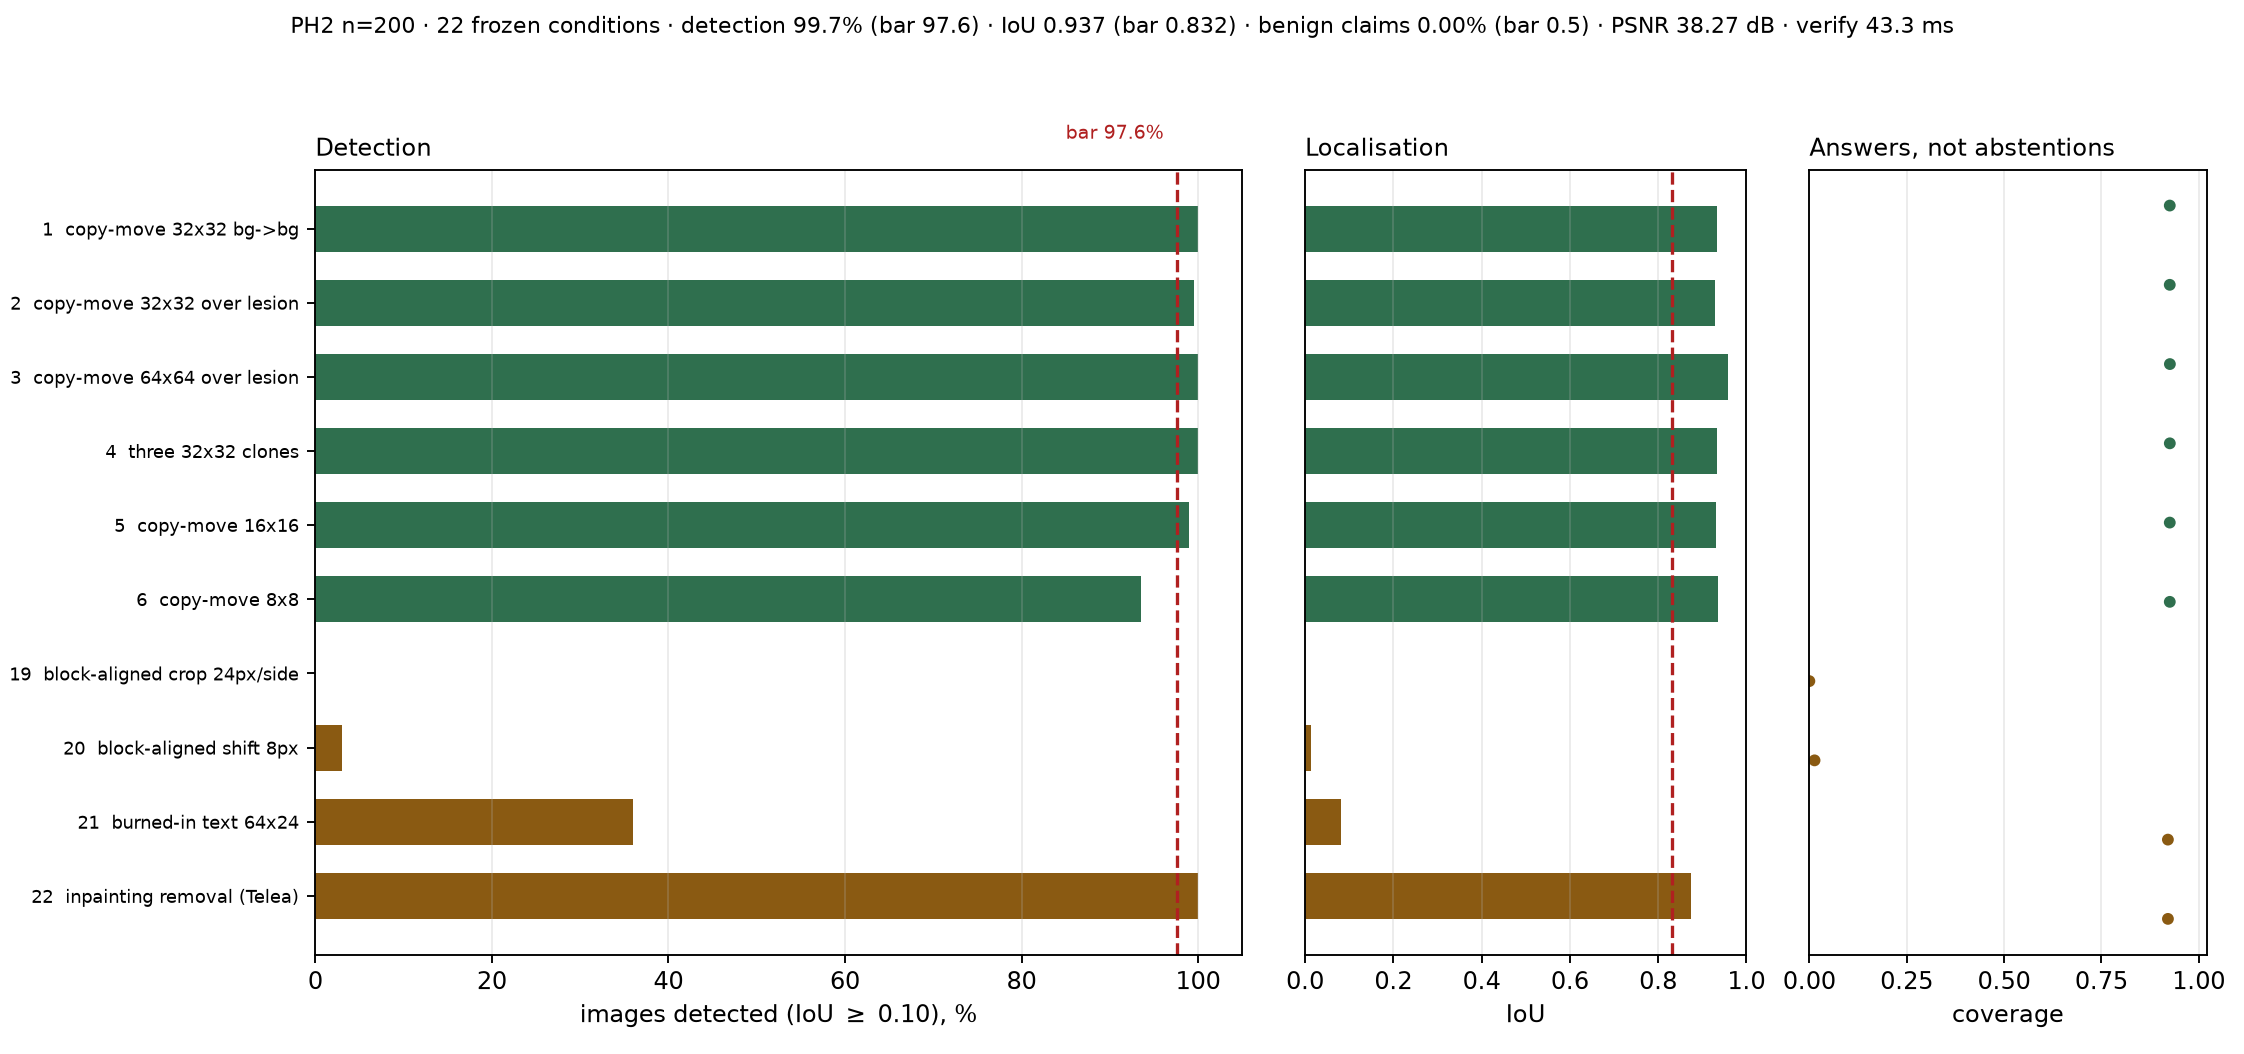
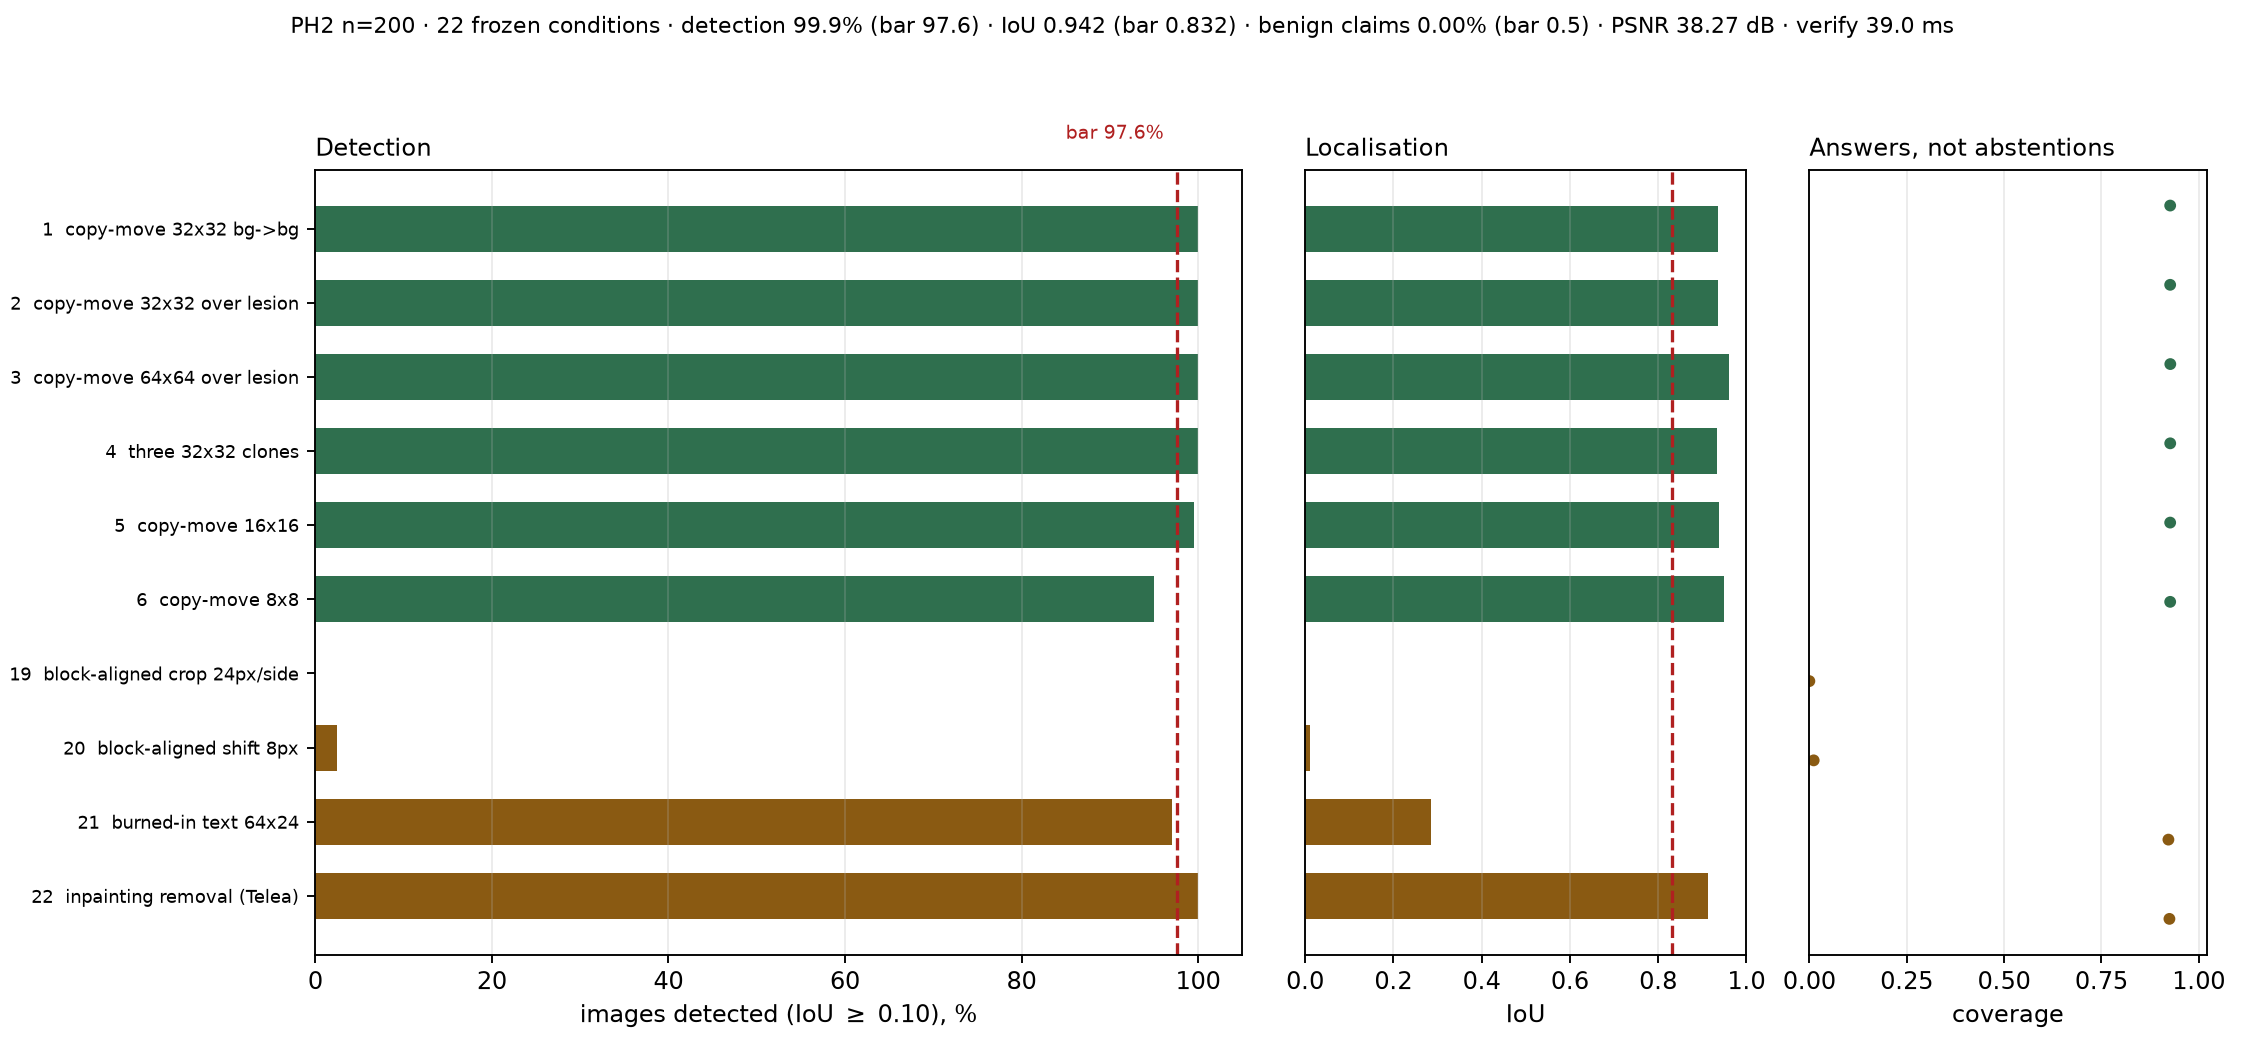
run: the headline receipt, clean code paths, and figures from it
n200-v6 at commit dd06beb: detection 0.9990, IoU 0.9421, benign 0.0000,
clean-image claims 0/200, PSNR 38.27 (worst 35.52), verify 38.98 ms,
coverage 0.927. Verification time moves a few per cent between runs on a
shared machine; everything else is deterministic and reproduced three times.

The ablation receipts were re-run at the same commit and land on the same
numbers as before (A7: 0.2847 -> 0.0648 plain, 0.2755 -> 0.0231 smooth).

BUILD_PLAN now says what it is - a historical design record whose numbers are
single-phantom mechanism checks - instead of leaving a reader to wonder whether
'Phase One' is still the current state.

diff --git a/docs/BENCHMARKS.md b/docs/BENCHMARKS.md
@@ -49,7 +49,7 @@ to, not a claim to have beaten anyone.
 
 <!-- BEGIN MEASURED TABLES -->
 **Run:** `scripts/bench.py --data /tmp/ph2mirror --limit 200 --receipt runs/2026-10-20-n200-v6/receipt.json`  
-**Commit:** `89f47a2` · **dirty tree:** no · **n:** 200
+**Commit:** `dd06beb` · **dirty tree:** no · **n:** 200
 
 
 | what | bar | measured | |
@@ -58,7 +58,7 @@ to, not a claim to have beaten anyone.
 | localisation IoU, conditions 1-6 | >= 0.832 | **0.9421** | met |
 | false claims, benign conditions | <= 0.5% | **0.00%** | met |
 | PSNR (mean; worst image) | >= 37.8 dB | **38.27 dB; 35.52 dB** | met |
-| verify latency | <= 44 ms | **38.60 ms** | met |
+| verify latency | <= 44 ms | **38.98 ms** | met |
 
 | # | condition | family | claim | detected | det@IoU 0.5 | IoU | block-F1 | coverage | silent (img) | silent (blocks) |
 |---|---|---|---|---|---|---|---|---|---|---|
@@ -85,7 +85,7 @@ to, not a claim to have beaten anyone.
 | 21 | burned-in text 64x24 | structure | 99.5% | 97.0% | 0.5% | 0.286 | 0.437 | 0.922 | 83.0% | 5.9% |
 | 22 | inpainting removal (Telea) | structure | 100.0% | 100.0% | 99.5% | 0.912 | 0.953 | 0.925 | 100.0% | 2.9% |
 
-PSNR 38.27 dB (worst 35.52) · coverage 0.927 · protect 132 ms/img · verify 38.6 ms/img.
+PSNR 38.27 dB (worst 35.52) · coverage 0.927 · protect 131 ms/img · verify 39.0 ms/img.
 <!-- END MEASURED TABLES -->
 
 > **Provenance.** `code_dirty` is `false`: the code paths (`src/`, `scripts/`,
@@ -116,7 +116,7 @@ reviewer should ask what the distribution behind it looks like, so:
   detection: at `FIT_MARGIN = 3` the worst image is 37.65 dB and detection is
   97.60%, exactly the bar with nothing behind it
   (`runs/2026-10-19-n200-v4/`). Both receipts ship, and the trade is in §3.4.
-* **latency** is 38.60 ms against a 44 ms bar on this Linux sandbox. It is
+* **latency** is 38.98 ms against a 44 ms bar on this Linux sandbox. It is
   hardware-relative: an earlier trial on the user's i5-1235U measured ~1.4×
   slower than the sandbox of the day. Reported as measured, not projected.
 

diff --git a/docs/MID_PROJECT_REVIEW.md b/docs/MID_PROJECT_REVIEW.md
@@ -6,8 +6,9 @@ honest abstention, and an evaluation battery that is falsifiable by construction
 
 **Date:** 2026-10-20 · **Branch:** `arena/4f1090b0-major-project` (PR #4 → `dev`)
 · **Corpus:** PH2, 200 dermoscopic images, 512 × 512, all 22 conditions
-· **Receipt:** `runs/2026-10-20-n200-v6/receipt.json` — the command, config, git
-commit, environment and per-condition counts are inside it
+· **Receipt:** `runs/2026-10-20-n200-v6/receipt.json` (commit `dd06beb`, code
+paths clean) — the command, config, git commit, environment and per-condition
+counts are inside it
 
 ---
 
@@ -67,7 +68,7 @@ itself to, not a claim to have beaten anyone.
 | false claims, benign conditions | ≤ 0.5% | **0.00%** on all five | met |
 | false claims, untouched image | 0 | **0 / 200** | met |
 | PSNR | ≥ 37.8 dB (mean) | **38.27 dB** mean, **35.52 dB** worst | met on the mean |
-| verify latency | ≤ 44 ms | **38.60 ms** | met |
+| verify latency | ≤ 44 ms | **38.98 ms** | met |
 
 Four numbers belong beside them, because a detector that abstains a lot looks
 excellent on the rows above:

diff --git a/docs/BUILD_PLAN.md b/docs/BUILD_PLAN.md
@@ -3,9 +3,14 @@
 Prepared 2026-10-19, after reading the full context package
 (`project-context/`, branch `dev`) and running a design-risk spike.
 
-Status of this document: **proposal**. It does not override the dossier. Where
-it disagrees with the dossier, the disagreement is recorded in
-`docs/AMENDMENTS.md` with the measurement that forced it.
+Status of this document: **historical design record**. It does not override the
+dossier, and it is not the current state of the work: where it disagrees with
+the dossier, the disagreement is recorded in `docs/AMENDMENTS.md` with the
+measurement that forced it, and the measured state of the system is
+`docs/MID_PROJECT_REVIEW.md` with `docs/BENCHMARKS.md`. The numbers in §3 are
+**mechanism checks on one synthetic phantom**, not results; none of them is
+quoted anywhere as a result, and all of them have since been superseded by
+measurements on PH2.
 
 ---
 

diff --git a/docs/RESULTS.md b/docs/RESULTS.md
@@ -35,7 +35,7 @@ in [`docs/BENCHMARKS.md`](BENCHMARKS.md) §1.
 | never claims on an untouched image | **0 / 200** | 0 | same |
 | stays silent on benign handling | **0.0%** on JPEG 90/75/50, resize **and** σ=1 | ≤ 0.5% | same |
 | does not visibly damage the image | **38.27 dB** mean, worst image **35.52 dB** | ≥ 37.8 dB mean | same |
-| runs fast enough to use | **38.60 ms** verify, 130 ms protect, 512², CPU | ≤ 44 ms | same |
+| runs fast enough to use | **38.98 ms** verify, 130 ms protect, 512², CPU | ≤ 44 ms | same |
 | the binding is what defeats copy-move | ablation A1: detection **1.000 → 0.000** | — | `2026-10-20-ablate` |
 | the global-transform rules are load-bearing | ablation A8: resize claims **0.000 → 1.000** without them | — | same |
 | the mean binding is what catches burned-in text | ablation A7: condition 21 IoU **0.285 → 0.065** | — | same |

diff --git a/docs/REPRODUCE.md b/docs/REPRODUCE.md
@@ -90,11 +90,11 @@ the texture gate off. If you have the official distribution with `_lesion.bmp`
 masks, `prepare_ph2.py` takes that instead and checks the masks properly.
 
 Expected, from the Linux reference run (`runs/2026-10-20-n200-v6/`, commit
-`89f47a2`, code paths clean, 672 s):
+`dd06beb`, code paths clean, 665 s):
 
 ```
 detection 0.9990 | IoU 0.9421 | benign 0.0000 | clean-image claims 0/200
-PSNR 38.27 dB (worst 35.52) | verify 38.60 ms | coverage 0.927
+PSNR 38.27 dB (worst 35.52) | verify 38.98 ms | coverage 0.927
 ```
 
 Exact reproduction is not expected on different hardware: verify latency is the

diff --git a/README.md b/README.md
@@ -12,7 +12,7 @@ code departs from it, the departure is recorded with its measurement in
 
 Mid-project review checkpoint, measured on real tissue (PH2, n=200, 22 frozen
 conditions). All five operating-point bars are met on the mean: detection
-99.90%, IoU 0.9421, benign claims 0.00%, PSNR 38.27 dB, verify 38.60 ms, and
+99.90%, IoU 0.9421, benign claims 0.00%, PSNR 38.27 dB, verify 38.98 ms, and
 zero false claims on the 200 untouched images. The known weaknesses — worst-case
 PSNR 35.52 dB, burned-in text as an alarm rather than a localiser — are stated
 with their numbers in
